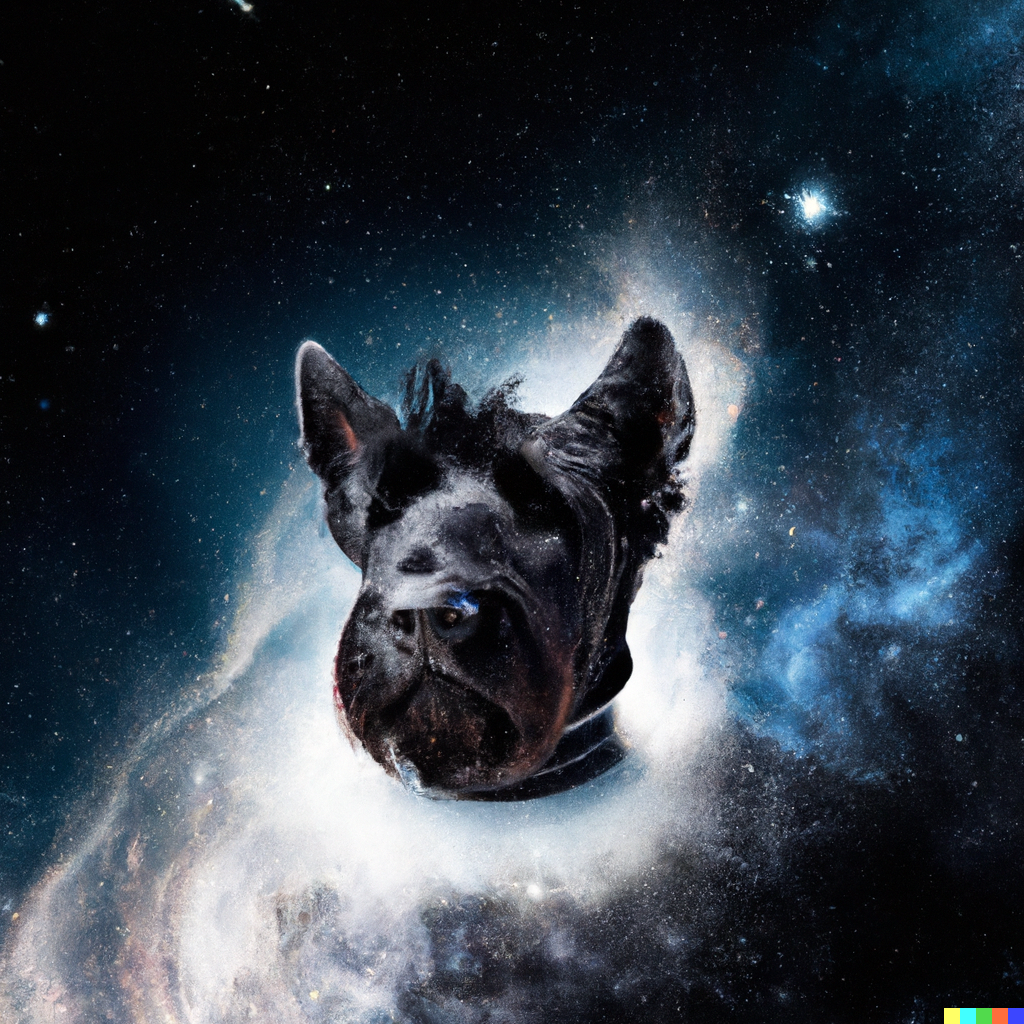
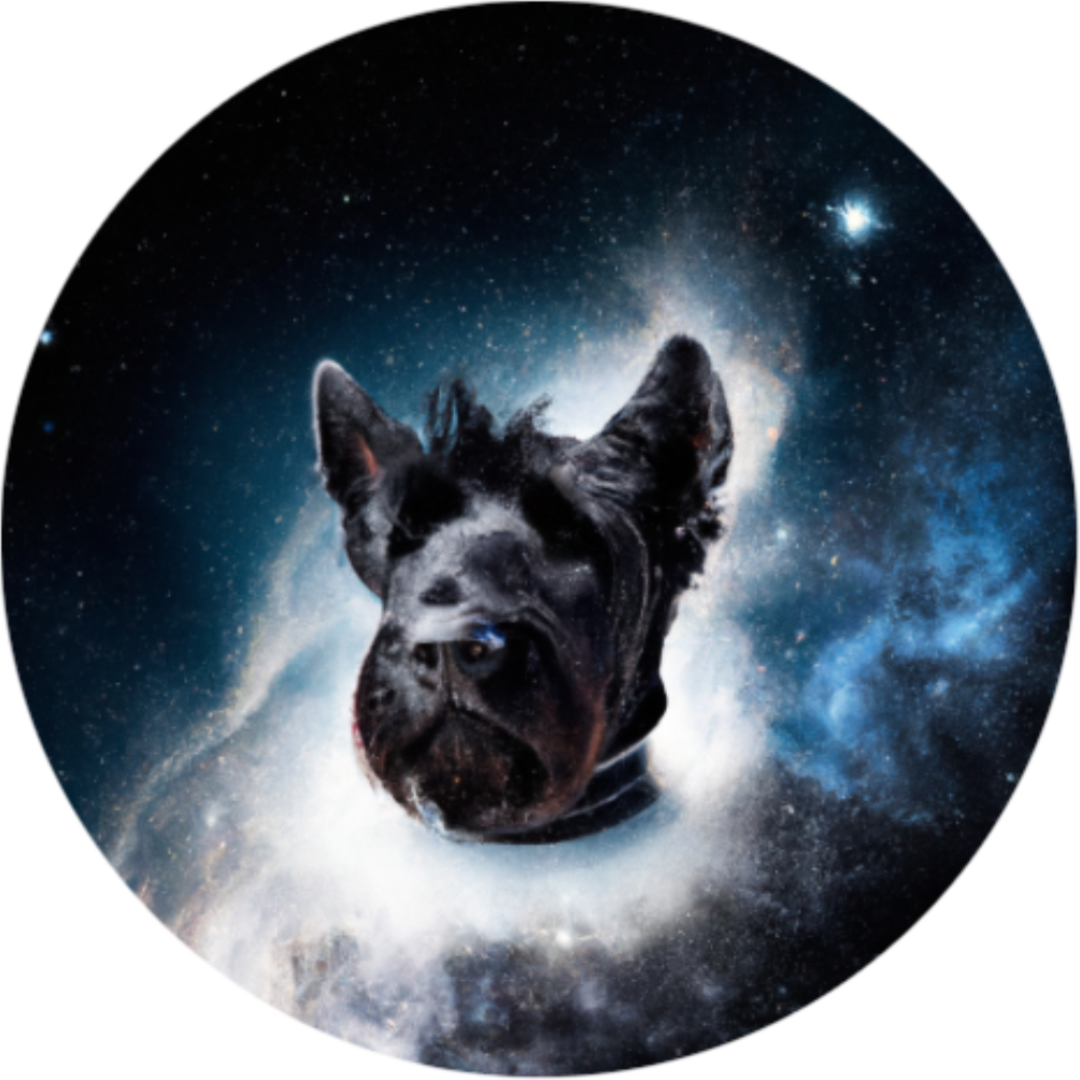
cambio foto

diff --git a/index.html b/index.html
@@ -46,7 +46,7 @@
           </div>
 
           <form class="login100-form validate-form">
-            <span class="login100-form-title"> Ingresar como miembro </span>
+            <span class="login100-form-title"> Red Rosmo </span>
 
             <div
               class="wrap-input100 validate-input"
